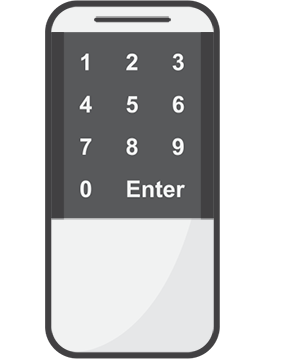
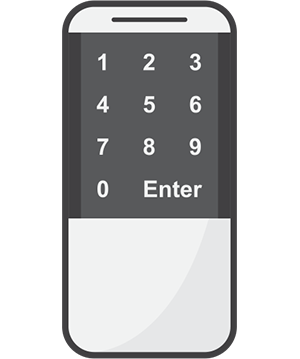
dev: Update smart locker

diff --git a/css/main.css b/css/main.css
@@ -470,18 +470,16 @@ a {
     background-image: url(../img/lock-design-process2.png); }
   .lock-design__locker {
     position: relative;
-    margin-left: 20px;
-    margin-right: -10px;
     background-image: url(../img/lock-design-locker.png); }
     .lock-design__locker:before {
       padding-top: 120%; }
   .lock-design__intro ~ .lock-design__intro .lock-design__locker:after {
     content: "";
     position: absolute;
-    left: 15%;
+    left: 0;
     top: 0;
     display: block;
-    width: 58%;
+    width: 100%;
     height: 100%;
     background-image: url(../img/lock-design-smarter.png);
     background-size: 100% auto; }

diff --git a/styles/_section-lock-design.scss b/styles/_section-lock-design.scss
@@ -89,8 +89,6 @@
 
   &__locker {
     position: relative;
-    margin-left: 20px;
-    margin-right: -10px;
     background-image: url(../img/lock-design-locker.png);
 
     &:before {
@@ -101,10 +99,10 @@
   &__intro ~ &__intro &__locker:after {
     content: "";
     position: absolute;
-    left: 15%;
+    left: 0;
     top: 0;
     display: block;
-    width: 58%;
+    width: 100%;
     height: 100%;
     background-image: url(../img/lock-design-smarter.png);
     background-size: 100% auto;

diff --git a/styles/break-points.scss b/styles/break-points.scss
@@ -284,6 +284,19 @@
     &__intro {
       padding: 10px 0 24px;
     }
+
+    li.lock-design__locker {
+      margin: 0 -10px;
+    }
+
+    li.lock-design__process {
+      margin-left: 10px;
+    }
+
+    li.lock-design__process ~ &__process {
+      margin-left: 0;
+      margin-right: 10px;
+    }
   }
 
   .platform {
